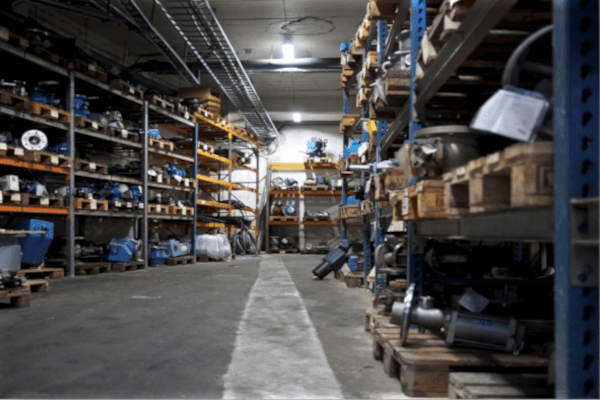
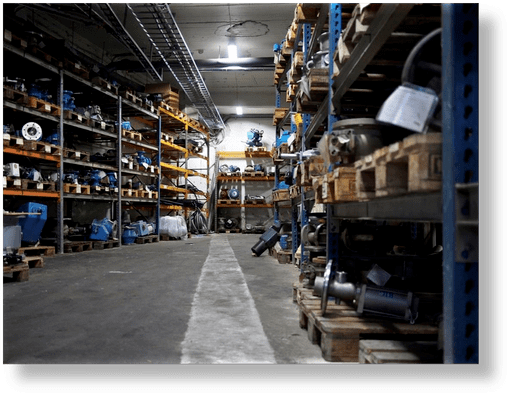
more compressing

diff --git a/index.html b/index.html
@@ -87,10 +87,7 @@
                             </div>
                             <div class="carousel-item hero-img">
                                 <img src="assets/img/portfolio/sisal.png" class="" alt="...">
-                            </div>
-                            <div class="carousel-item hero-img">
-                                <img src="assets/img/portfolio/alfa.png" class="" alt="...">
-                            </div>
+                            </div>                            
                             <div class="carousel-item">
                                 <img src="assets/img/portfolio/transport.png" class="" alt="...">
                             </div>
@@ -168,7 +165,7 @@
                                     <a data-toggle="collapse" href="#accordion-list-3" class="collapsed"><span>03</span> MANAGEMENT & PATNERS<i class="bx bx-chevron-down icon-show"></i><i class="bx bx-chevron-up icon-close"></i></a>
                                     <div id="accordion-list-3" class="collapse" data-parent=".accordion-list">
                                         <p>
-                                            Eleifend mi in nulla posuere sollicitudin aliquam ultrices sagittis orci. Faucibus pulvinar elementum integer enim. Sem nulla pharetra diam sit amet nisl suscipit. Rutrum tellus pellentesque eu tincidunt. Lectus urna duis convallis convallis tellus. Urna molestie at elementum eu facilisis sed odio morbi quis
+                                            
                                         </p>
                                     </div>
                                 </li>
@@ -180,124 +177,125 @@
             </div>
         </section><!-- End Why Us Section -->
 
-        <section id="more-services" class="more-services">
-          <div class="container" data-aos="fade-up">
-
-            <div class="section-title">
+        <section id="services" class="services section-bg">
+            <div class="container" data-aos="fade-up">
+                <div class="section-title">
                     <h2>Services</h2>
                     <p>Our Principals, both Locally and Internationally have quality products and services suitable for your business integration at very competitive rates. Our scope of Agency is capable but not limited to below services.</p>
                 </div>
-
-            <div class="row">
-              <div class="col-md-4 d-flex align-items-stretch">
-                <div class="card" style='background-image: url("assets/img/portfolio/tours.png");' data-aos="fade-up" data-aos-delay="100">
-                  <div class="card-body">
-                    <h5 class="card-title"><a href="">Tours and Travels</a></h5>
-                    <p class="card-text"><small>We offer an abundance of excursions to meet
+                <div class="row">
+                    <div class="col-xl-4 col-md-6 d-flex align-items-stretch" data-aos="zoom-in" data-aos-delay="100">
+                        <div class="icon-box">
+                            <div class="icon"><i class="bx bxl-dribbble"></i></div>
+                            <h6><a href="">Tours and Travels</a></h6>
+                            <small>We offer an abundance of excursions to meet
                                 your needs. From adventurous
                                 mountain trekking to awe-inspiring beaches,
-                                our collection of destinations are irresistible.</small> </p>
-                    <div class="read-more"><a href="#"><i class="icofont-arrow-right"></i> Read More</a></div>
-                  </div>
-                </div>
-              </div>
-
-              <div class="col-md-4 d-flex align-items-stretch mt-4">
-                <div class="card" style='background-image: url("assets/img/portfolio/villa.png");' data-aos="fade-up" data-aos-delay="200">
-                  <div class="card-body">
-                    <h5 class="card-title"><a href="">Luxury Villa</a></h5>
-                    <p class="card-text"><small>We offer a unique blend of comfort & relaxation. A comprehensive competitive package
-from tours and travels services, a fully furnished villa with full self service facilities.
-We are situated in Muthaiga Estate, a proximity of 15kms to the famous Mt Kenya Safari club
-and about 3kms from Nanyuki town.</small></p>
-                    <div class="read-more"><a href="#"><i class="icofont-arrow-right"></i> Read More</a></div>
-                  </div>
-                </div>
-              </div>
-
-
-
-
-
-              <div class="col-md-4 d-flex align-items-stretch mt-4 mt-md-0">
-                <div class="card" style='background-image: url("assets/img/portfolio/transport.png");' data-aos="fade-up" data-aos-delay="200">
-                  <div class="card-body">
-                    <h5 class="card-title"><a href="">Land Transport, East Africa</a></h5>
-                    <p class="card-text"><small>We coordinate transit cargo shipments from
+                                our collection of destinations are irresistible.</small>
+                        </div>
+                    </div>
+                    <div class="col-xl-4 col-md-6 d-flex align-items-stretch mt-4 mt-md-0" data-aos="zoom-in" data-aos-delay="200">
+                        <div class="icon-box">
+                            <div class="icon"><i class="bx bx-file"></i></div>
+                            <h6><a href="">Land Transport, East Africa</a></h6>
+                            <small>We coordinate transit cargo shipments from
                                 the inland destinations in Kenya and other
                                 landlocked countries of Uganda, Rwanda,
-                                Burundi, Tanzania and South Sudan.</small> </p>
-                    <div class="read-more"><a href="#"><i class="icofont-arrow-right"></i> Read More</a></div>
-                  </div>
-                </div>
-
-              </div>
-              <div class="col-md-4 d-flex align-items-stretch mt-4">
-                <div class="card" style='background-image: url("assets/img/portfolio/visa.png");' data-aos="fade-up" data-aos-delay="100">
-                  <div class="card-body">
-                    <h5 class="card-title"><a href="">Visa & Ticketing</a></h5>
-                    <p class="card-text"><small>We have networked with reputable agencies for
+                                Burundi, Tanzania and South Sudan.</small>
+                        </div>
+                    </div>
+                    <div class="col-xl-4 col-md-6 d-flex align-items-stretch mt-4 mt-xl-0" data-aos="zoom-in" data-aos-delay="300">
+                        <div class="icon-box">
+                            <div class="icon"><i class="bx bx-tachometer"></i></div>
+                            <h6><a href="">Visa & Ticketing</a></h6>
+                            <small>We have networked with reputable agencies for
                                 all types of tours, travels, holiday packages and
-                                visa services with a goal to provide best services.</small></p>
-                    <div class="read-more"><a href="#"><i class="icofont-arrow-right"></i> Read More</a></div>
-                  </div>
+                                visa services with a goal to provide best services.</small>
+                        </div>
+                    </div>
+                    
                 </div>
-              </div>
-              <div class="col-md-4 d-flex align-items-stretch mt-4">
-                <div class="card" style='background-image: url("assets/img/portfolio/port.png");' data-aos="fade-up" data-aos-delay="200">
-                  <div class="card-body">
-                    <h5 class="card-title"><a href="">Shipping Agency</a></h5>
-                    <p class="card-text"><small>Our partner is fully committed to provide a
+                <!-- second row -->
+                <br>
+                <div class="row">
+
+                    <div class="col-xl-4 col-md-6 d-flex align-items-stretch mt-4 mt-xl-0" data-aos="zoom-in" data-aos-delay="400">
+                        <div class="icon-box">
+                            <div class="icon"><i class="bx bx-layer"></i></div>
+                            <h6><a href="">Shipping Agency</a></h6>
+                            <small>Our partner is fully committed to provide a
                                 clientele integrated, distinctive Ships Agency,
                                 Supply Chain Consultancy, Crewing and
                                 Stevedoring services while building and sustaining
-                                formidable mutual partnerships worldwide.</small></p>
-                    <div class="read-more"><a href="#"><i class="icofont-arrow-right"></i> Read More</a></div>
-                  </div>
-                </div>
-              </div>
-              <div class="col-md-4 d-flex align-items-stretch mt-4">
-                <div class="card" style='background-image: url("assets/img/portfolio/spare-parts.png");' data-aos="fade-up" data-aos-delay="200">
-                  <div class="card-body">
-                    <h5 class="card-title"><a href="">Spare Parts</a></h5>
-                    <p class="card-text"><small>For any specific car brand, model or spare
+                                formidable mutual partnerships worldwide.</small>
+                        </div>
+                    </div>
+
+
+                    <div class="col-xl-4 col-md-6 d-flex align-items-stretch" data-aos="zoom-in" data-aos-delay="100">
+                        <div class="icon-box">
+                            <div class="icon"><i class="bx bxl-dribbble"></i></div>
+
+                            <h6><a href="">Sesame Seeds</a></h6>
+                            <small>Our Principal specializes in the sifting and
+                                export of premium quality sesame seeds.
+                                Due to our expertise in this field, we are
+                                capable of consistent supply, constant
+                                improvement and upgrading.
+                                This ensures us a long term relationship
+                                with our customers.</small>
+                        </div>
+                    </div>
+                    <div class="col-xl-4 col-md-6 d-flex align-items-stretch mt-4 mt-md-0" data-aos="zoom-in" data-aos-delay="200">
+                        <div class="icon-box">
+                            <div class="icon"><i class="bx bx-file"></i></div>
+                            <h6><a href="">Spare Parts</a></h6>
+                            <small>For any specific car brand, model or spare
                                 part year, our business associates provide
                                 you with an original equipment (OE)
                                 equivalent replacement parts that feature
                                 as a perfect fitment at the most affordable
-                                prices.</small></p>
-                    <div class="read-more"><a href="#"><i class="icofont-arrow-right"></i> Read More</a></div>
-                  </div>
+                                prices.</small>
+                        </div>
+                    </div>
                 </div>
-              </div>
+                <br>
 
-              <div class="col-md-4 d-flex align-items-stretch mt-4">
-                <div class="card" style='background-image: url("assets/img/portfolio/warehouse.png");' data-aos="fade-up" data-aos-delay="200">
-                  <div class="card-body">
-                    <h5 class="card-title"><a href="">Warehousing, Jebel Ali Dubai</a></h5>
-                    <p class="card-text"><<small>Located at Dubai World Central and
+                <div class="row">
+                    <div class="col-xl-4 col-md-6 d-flex align-items-stretch mt-4 mt-xl-0" data-aos="zoom-in" data-aos-delay="300">
+                        <div class="icon-box">
+                            <div class="icon"><i class="bx bx-tachometer"></i></div>
+                            <h6><a href="">Warehousing, Jebel Ali Dubai</a></h6>
+                            <small>Located at Dubai World Central and
                                 at a proximity to DP world port, our
                                 warehousing facility has enough
                                 storage space and is thermally
                                 insulated with purpose-built units.
                                 Security
-                                .</small></p>
-                    <div class="read-more"><a href="#"><i class="icofont-arrow-right"></i> Read More</a></div>
-                  </div>
+                                .</small>
+                        </div>
+                    </div>
+                    <div class="col-xl-4 col-md-6 d-flex align-items-stretch mt-4 mt-xl-0" data-aos="zoom-in" data-aos-delay="400">
+                        <div class="icon-box">
+                            <div class="icon"><i class="bx bx-layer"></i></div>
+                            <h6><a href="">Motor Vehicle Tracking and valuation</a></h6>
+                            <small>VALUATION<br>
+                                Our business associate firm is managed by
+                                professionals in the field of insurance with expertise
+                                in motor valuation and assessment services.</small>
+                        </div>
+                    </div>
                 </div>
-              </div>
-
-              
-
-
+                <!-- end -->
             </div>
-
-          </div>
-        </section><!-- End More Services Section -->
+        </section><!-- End Services Section -->
 
 
 
 
+<!-- end test -->
+
+        
 
 
 

diff --git a/assets/css/style.css b/assets/css/style.css
@@ -866,13 +866,14 @@ section {
   padding: 160px 20px 20px 20px;
   position: relative;
   width: 100%;
+  height: 50%;
   background-size: cover;
   background-repeat: no-repeat;
   background-position: center center;
 }
 
 .more-services .card-body {
-  z-index: 10;
+  z-index: 1;
   background: rgba(255, 255, 255, 0.9);
   padding: 15px 30px;
   box-shadow: 0px 2px 15px rgba(0, 0, 0, 0.1);
